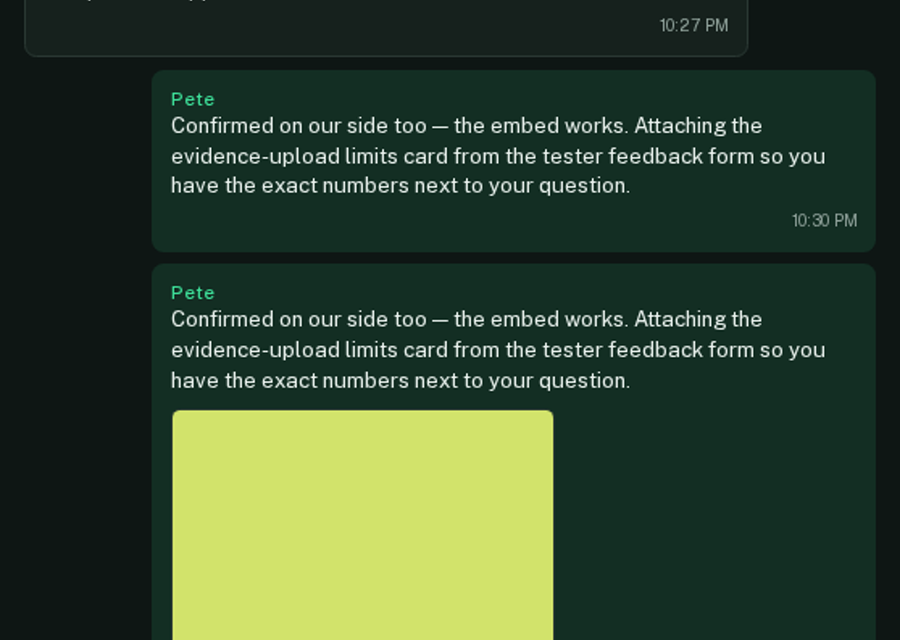
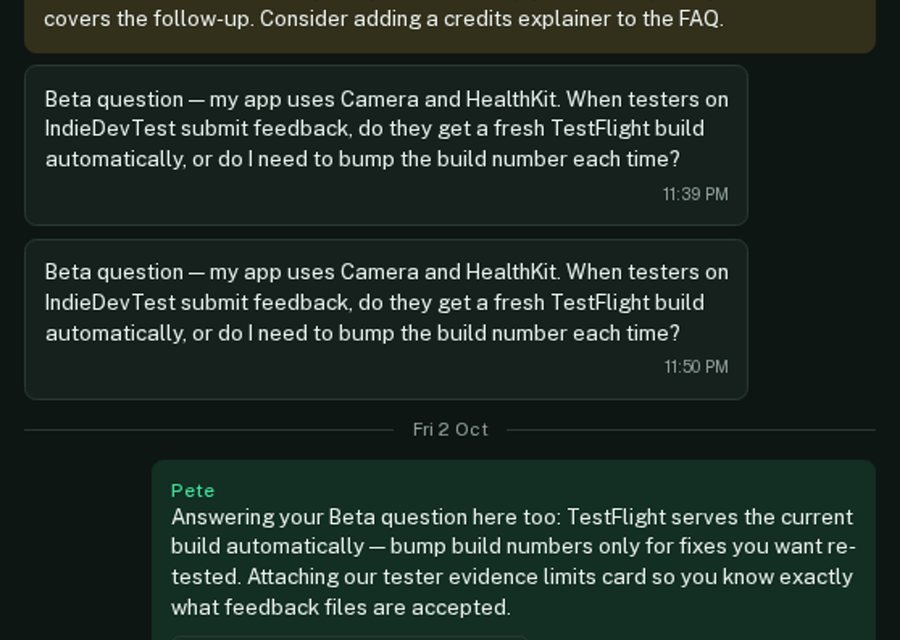
fix(marketing): review fixes — honest alts, better captures, a11y
Cursor-prep round on the customer-zero marketing PR (CodeRabbit clean,
/simplify, /review-bugbot): recapture the shots bugbot showed did not
match their alts — the inbox list was empty because every replied thread
sits in Pending, the S6 shot was a chat thread described as email, S5
showed test-time context values instead of the real integration's, the
S8 crop missed the snippet, and the attachment crop was a flat colour
block. New captures: S1/S1m/S4 with the real conversation list and the
identified thread selected; S6 as a delivered support-email thread; S5
from the conversation carrying the actual indiedevtest.com identify/
context payload; S8 scrolled to the embed snippet with its copy button;
S-attachments showing a named file chip; S7-dark as the away state on a
dark site (the widget itself does not re-theme yet).

Also: alts and manifest descriptions now describe what each capture
shows; the dark image variant carries the same accessible name as the
light one; the Not-yet section joins the features nav; the showcase copy
no longer implies member-sent questions; and the manifest test wording
covers S2m's mobile (not second-product) reason for staying pending.

diff --git a/src/app/(marketing)/features/page.tsx b/src/app/(marketing)/features/page.tsx
@@ -50,37 +50,37 @@ const SECTIONS: FeatureSection[] = [
     id: "products",
     title: "Give every product a place to reach you",
     body: "Set each Product's name, colour and allowed domains, then embed its chat widget. Customers can start a live chat without an account or email address.",
-    shot: { id: "S2", alt: "A product's chat widget panel with one live exchange" },
+    shot: { id: "S2", alt: "The product's chat widget panel with one live exchange" },
   },
   {
     id: "email",
     title: "Answer email where you answer chat",
     body: "Forward your support addresses to their Product inbox addresses. Read and reply in the shared inbox, with the Product identified in the email sender name.",
-    shot: { id: "S6", alt: "Email reply arriving in the same conversation as an earlier chat" },
+    shot: { id: "S6", alt: "Support email conversation with a question and the reply sent from the shared inbox" },
   },
   {
     id: "away",
     title: "Keep support open when you step away",
     body: "Set the Workspace to Away so new chat visitors leave a message and reply address. Continue by email when a visitor has left an address and is no longer connected.",
-    shot: { id: "S7", alt: "Chat widget in away mode, asking for a message and an email address" },
+    shot: { id: "S7", alt: "Chat widget in away mode, inviting a message that continues by email" },
   },
   {
     id: "inbox",
     title: "Find the thread you need",
     body: "Filter by Product or status. Search message text, subjects, customer names and email addresses across your Workspace.",
-    shot: { id: "S4", alt: "Inbox filtered to one product with a shortened conversation list" },
+    shot: { id: "S4", alt: "Inbox scoped to the IndieDevTest product with its conversation list" },
   },
   {
     id: "context",
     title: "See the details your app can provide",
     body: "Use identify() and context() to send customer and app details into the Conversation panel. Include an account, plan, version or admin link where it helps you answer.",
-    shot: { id: "S5", alt: "Context panel beside a conversation showing account, plan, version and admin link", withCode: true },
+    shot: { id: "S5", alt: "Context panel beside a conversation showing the identified customer and the app context sent with their message", withCode: true },
   },
   {
     id: "statuses",
     title: "Keep track of the work",
     body: "Use Open, Pending and Closed states. Add internal notes for your team and tags for the topics you handle.",
-    shot: { id: "S1", alt: "Inbox with conversations at different statuses across products" },
+    shot: { id: "S1", alt: "Inbox with the conversation list, a selected thread and the customer context panel" },
   },
   {
     id: "saved-replies",
@@ -92,19 +92,19 @@ const SECTIONS: FeatureSection[] = [
     id: "attachments",
     title: "Keep files with the question",
     body: "Share supported attachments through chat and email. See them alongside the messages they belong to.",
-    shot: { id: "S-attachments", alt: "Conversation showing a shared file attachment" },
+    shot: { id: "S-attachments", alt: "Reply in a conversation carrying an attached file with its name and size" },
   },
   {
     id: "team",
     title: "Bring your team into the same Workspace",
     body: "Invite teammates as Admins or Agents. Admins manage Products and invitations; Agents work in the inbox.",
-    shot: { id: "S9", alt: "Team settings listing members with Admin and Agent roles" },
+    shot: { id: "S9", alt: "Team settings listing the workspace Admin and the invite form for Agents" },
   },
   {
     id: "onboarding",
     title: "Start with a real exchange",
     body: "Follow onboarding to add a Product, allow its domain and install the widget. Send a test message, answer it and add your next Product.",
-    shot: { id: "S8", alt: "Widget settings with the embed snippet, copy button and test-page link" },
+    shot: { id: "S8", alt: "Widget settings showing the embed snippet with its copy button" },
   },
 ];
 
@@ -118,7 +118,10 @@ const NOT_YET = [
   "A built-in mail server",
 ];
 
-const NAV_ITEMS: FeaturesNavItem[] = SECTIONS.map((section) => ({ id: section.id, label: section.title }));
+const NAV_ITEMS: FeaturesNavItem[] = [
+  ...SECTIONS.map((section) => ({ id: section.id, label: section.title })),
+  { id: "not-yet", label: "Not yet — and not pretended" },
+];
 
 export default function FeaturesPage() {
   return (
@@ -184,21 +187,23 @@ export default function FeaturesPage() {
 
       {/* Not yet — and not pretended (docs/marketing/copy.md, features). */}
       <Section band="surface" className="pb-16 lg:pb-20">
-        <SectionHeading title="Not yet — and not pretended" />
-        <p className="mt-4 max-w-[40rem] text-[1.067rem] leading-[1.65] text-body">
-          {siteConfig.name} deliberately does not yet ship the things below. If you need
-          them, {siteConfig.name} is not the right desk today.
-        </p>
-        <ul className="mt-8 grid gap-3 sm:grid-cols-2 lg:grid-cols-3">
-          {NOT_YET.map((item) => (
-            <li
-              key={item}
-              className="rounded-lg border border-border bg-surface px-4 py-3 text-[1rem] text-muted"
-            >
-              {item}
-            </li>
-          ))}
-        </ul>
+        <div id="not-yet" className="scroll-mt-20">
+          <SectionHeading title="Not yet — and not pretended" />
+          <p className="mt-4 max-w-[40rem] text-[1.067rem] leading-[1.65] text-body">
+            {siteConfig.name} deliberately does not yet ship the things below. If you need
+            them, {siteConfig.name} is not the right desk today.
+          </p>
+          <ul className="mt-8 grid gap-3 sm:grid-cols-2 lg:grid-cols-3">
+            {NOT_YET.map((item) => (
+              <li
+                key={item}
+                className="rounded-lg border border-border bg-surface px-4 py-3 text-[1rem] text-muted"
+              >
+                {item}
+              </li>
+            ))}
+          </ul>
+        </div>
       </Section>
 
       <CtaBand

diff --git a/src/app/(marketing)/page.tsx b/src/app/(marketing)/page.tsx
@@ -27,7 +27,7 @@ export const metadata: Metadata = {
  * Async-safe developer-context snippet, mirroring IndieDevTest's real
  * integration (pietervw/indiedevtest, src/components/support-chat.tsx):
  * Clerk-signed members are identified and the app context carries the site
- * source and membership year. The copy pass never edits code semantics.
+ * source and membership year.
  */
 const CONTEXT_SNIPPET = `<script>
   window.SupportSealWidget = window.SupportSealWidget || { q: [] };
@@ -74,14 +74,14 @@ export default function HomePage() {
             <ScreenshotFrame
               shotId="S1m"
               eager
-              alt="Mobile inbox listing conversations from several products"
+              alt="Mobile inbox listing the product's pending conversations"
             />
           </div>
           <div className="hidden lg:block">
             <ScreenshotFrame
               shotId="S1"
               eager
-              alt="Inbox showing conversations from all products, with the sidebar listing three products and a context panel beside the selected conversation"
+              alt="Inbox with the product's conversations in the list, a selected thread in the middle and the customer context panel beside it"
             />
           </div>
         </div>
@@ -95,7 +95,7 @@ export default function HomePage() {
           media={
             <ScreenshotFrame
               shotId="S4"
-              alt="Inbox scoped to one product with a filtered conversation list"
+              alt="Inbox scoped to the IndieDevTest product, with its conversation list and open thread"
               caption="Each product has its own name and colour. Your team shares the inbox."
             />
           }
@@ -116,7 +116,7 @@ export default function HomePage() {
           media={
             <ScreenshotFrame
               shotId="S6"
-              alt="Conversation that started as a chat and continued by email, with the email reply visible"
+              alt="Support email conversation with a question and the reply sent from the shared inbox"
             />
           }
         >
@@ -141,7 +141,7 @@ export default function HomePage() {
             <div className="flex flex-col gap-6">
               <ScreenshotFrame
                 shotId="S5"
-                alt="Context panel showing the identified user with their plan, app version, page URL and an admin link"
+                alt="Context panel showing the identified customer with their email, user id, the app context they sent and the page the widget recorded"
                 caption="The app context you send, next to the customer's question."
               />
               <CodeBlock code={CONTEXT_SNIPPET} label="Developer context snippet" />
@@ -192,8 +192,8 @@ export default function HomePage() {
               lead={`IndieDevTest — a community where indie mobile developers test each other's apps — is the first product running on ${siteConfig.name}. Its support chat, developer context and support email land in one workspace.`}
             />
             <p className="mt-4 max-w-[40rem] text-[1.067rem] leading-[1.65] text-body">
-              The Conversations in the screenshots on this page are the real ones: questions from
-              IndieDevTest members, answered from a live inbox, with the context their site sends.
+              The Conversations in the screenshots on this page are real ones from its setup:
+              asked through the widget and by email, and answered from the live inbox.
             </p>
             <div className="mt-6">
               <Button asChild variant="text" color="primary" size="md" className="px-0">
@@ -206,8 +206,8 @@ export default function HomePage() {
           </div>
           <ScreenshotFrame
             shotId="S2"
-            alt="IndieDevTest's chat widget with a live exchange between a member and support"
-            caption="A real IndieDevTest thread: a member's question, answered live."
+            alt="IndieDevTest's chat widget with a live exchange between a visitor and support"
+            caption="A real IndieDevTest thread: a visitor's question, answered live."
           />
         </div>
       </Section>

diff --git a/src/components/marketing/__tests__/marketing-shots.test.ts b/src/components/marketing/__tests__/marketing-shots.test.ts
@@ -1,5 +1,4 @@
 import { describe, expect, it } from "vitest";
-import { existsSync } from "node:fs";
 import { readFile } from "node:fs/promises";
 import path from "node:path";
 
@@ -23,37 +22,25 @@ describe("marketing shot manifest", () => {
     }
   });
 
-  it("ships a light and dark file for every available capture", async () => {
+  it("ships a light and dark PNG at the reserved aspect ratio for every available capture", async () => {
     const available = Object.values(MARKETING_SHOTS).filter((shot) => shot.available);
     expect(available.length).toBeGreaterThan(0);
     const publicDir = path.join(process.cwd(), "public", "marketing");
     for (const shot of available) {
       for (const theme of ["light", "dark"] as const) {
-        const file = path.join(publicDir, `${shot.id}-${theme}.png`);
-        expect(existsSync(file), `${shot.id}-${theme}.png`).toBe(true);
+        const label = `${shot.id}-${theme}`;
+        const buf = await readFile(path.join(publicDir, `${label}.png`));
+        // PNG IHDR: width and height are big-endian uint32s at offsets 16 and 20.
+        expect(buf.readUInt32BE(16), label).toBe(shot.width);
+        expect(buf.readUInt32BE(20), label).toBe(shot.height);
       }
     }
   });
 
-  it("matches every available PNG to its reserved manifest aspect ratio", async () => {
-    const publicDir = path.join(process.cwd(), "public", "marketing");
-    const pngSize = async (file: string) => {
-      const buf = await readFile(file);
-      return { width: buf.readUInt32BE(16), height: buf.readUInt32BE(20) };
-    };
-    for (const shot of Object.values(MARKETING_SHOTS).filter((s) => s.available)) {
-      for (const theme of ["light", "dark"] as const) {
-        const { width, height } = await pngSize(path.join(publicDir, `${shot.id}-${theme}.png`));
-        expect(width, `${shot.id}-${theme}`).toBe(shot.width);
-        expect(height, `${shot.id}-${theme}`).toBe(shot.height);
-      }
-    }
-  });
-
-  it("keeps unavailable shots limited to captures that need a second real product", () => {
+  it("keeps unavailable shots to captures that need a second real product or a mobile pass", () => {
     const unavailable = Object.values(MARKETING_SHOTS).filter((shot) => !shot.available);
-    // S3 (a second product's widget) and S2m stay pending until a truthful
-    // capture exists; nothing else may flip back to unavailable.
+    // S3 (a second product's widget) and S2m (mobile widget) stay pending
+    // until a truthful capture exists; nothing else may flip back.
     expect(unavailable.map((shot) => shot.id).sort()).toEqual(["S2m", "S3"]);
   });
 });

diff --git a/src/config/marketing-shots.ts b/src/config/marketing-shots.ts
@@ -32,7 +32,7 @@ function shot(
 export const MARKETING_SHOTS: Record<string, MarketingShot> = {
   S1: shot(
     "S1",
-    "Inbox, All Products scope: sidebar with the first Product; conversation list with chat and email Conversations; context panel filled",
+    "Inbox, All Products scope: sidebar with the Product; conversation list with chat and email Conversations; context panel filled",
     1440,
     900,
   ),
@@ -41,18 +41,18 @@ export const MARKETING_SHOTS: Record<string, MarketingShot> = {
   // Pending a second real Product: a pink widget capture cannot be truthful yet.
   S3: shot("S3", "Chat widget panel, second Product (pink), one live exchange", 384, 600, false),
   S2m: shot("S2m", "Chat widget open on a 390px viewport", 390, 844, false),
-  S4: shot("S4", "Inbox scoped to IndieDevTest with filtered list", 1440, 900),
-  S5: shot("S5", "Context panel: identified member, plan, membership year, page URL", 384, 560),
-  S6: shot("S6", "Conversation continued from chat to email with an email reply", 1440, 900),
-  S7: shot("S7", "Widget in away mode: message form with email field", 384, 600),
-  S8: shot("S8", "Widget settings: embed snippet with copy button, live preview and test-page link", 1440, 900),
-  S9: shot("S9", "Team settings with the Admin role and the invite form", 1440, 900),
+  S4: shot("S4", "Inbox scoped to IndieDevTest with its conversation list and open thread", 1440, 900),
+  S5: shot("S5", "Context panel: identified member, their email and user id, app context and recorded page", 384, 560),
+  S6: shot("S6", "Support email Conversation with a question and the reply sent from the inbox", 1440, 900),
+  S7: shot("S7", "Widget in away mode, inviting a message that continues by email", 384, 600),
+  S8: shot("S8", "Widget settings: embed snippet with its copy button", 1440, 900),
+  S9: shot("S9", "Team settings: the workspace Admin and the invite form for Agents", 1440, 900),
   S10: shot("S10", "Hosted billing page: usage meter for the current period", 1440, 900),
   S11: shot("S11", "Conversation with note, tag and saved-reply picker open", 1440, 900),
   // The design shot list leaves the attachments crop unnamed ("crop of a
   // Conversation with a file"); it gets a manifest entry so the frame can
   // render a pending slot like every other capture.
-  "S-attachments": shot("S-attachments", "Conversation crop showing a shared file attachment", 900, 640),
+  "S-attachments": shot("S-attachments", "Reply carrying an attached file with its name and size", 900, 640),
 };
 
 /** Full shot-list ids from the design doc, for completeness tests. */

diff --git a/src/app/(marketing)/__tests__/marketing-pages.test.tsx b/src/app/(marketing)/__tests__/marketing-pages.test.tsx
@@ -55,7 +55,7 @@ describe("marketing home page", () => {
     // still emit a srcSet plus a preload link.
     expect(html).toContain("url=%2Fmarketing%2FS1-light.png");
     expect(html).toContain("url=%2Fmarketing%2FS1m-light.png");
-    expect(html).toContain('alt="Inbox showing conversations from all products');
+    expect(html).toContain("alt=\"Inbox with the product&#x27;s conversations in the list");
   });
 
   it("names customer zero with the live showcase section", () => {

diff --git a/src/components/marketing/screenshot-frame.tsx b/src/components/marketing/screenshot-frame.tsx
@@ -62,8 +62,7 @@ export function ScreenshotFrame({
           />
           <Image
             src={`/marketing/${shot.id}-dark.png`}
-            alt=""
-            aria-hidden
+            alt={alt}
             fill
             sizes="(max-width: 1024px) 100vw, 60vw"
             loading="lazy"

diff --git a/docs/marketing/copy.md b/docs/marketing/copy.md
@@ -98,9 +98,9 @@ insert a saved reply and edit it before sending.
 
 Editorial note: this is a live-deployment fact, not a feature claim. The
 evidence is the hosted workspace at supportseal.app (Seal Labs · IndieDevTest:
-real chat, email and context conversations) and the widget integration in
-IndieDevTest's public repository (pietervw/indiedevtest). Keep the wording
-true of the live state — tighten it only when the widget is embedded on
+real chat, email and context conversations) and the widget integration merged
+into IndieDevTest's public repository (pietervw/indiedevtest). Keep the
+wording true of the live state — tighten it only when the widget is served on
 indiedevtest.com itself.
 
 **Heading:** Customer zero: IndieDevTest
@@ -108,7 +108,7 @@ indiedevtest.com itself.
 IndieDevTest — a community where indie mobile developers test each other's
 apps — is the first product running on {siteConfig.name}. Its support chat,
 developer context and support email land in one workspace, and the
-conversations in the screenshots above are the real ones.
+conversations in the screenshots on this page are real ones from its setup.
 
 **CTA:** Visit IndieDevTest (external, https://indiedevtest.com)
 
